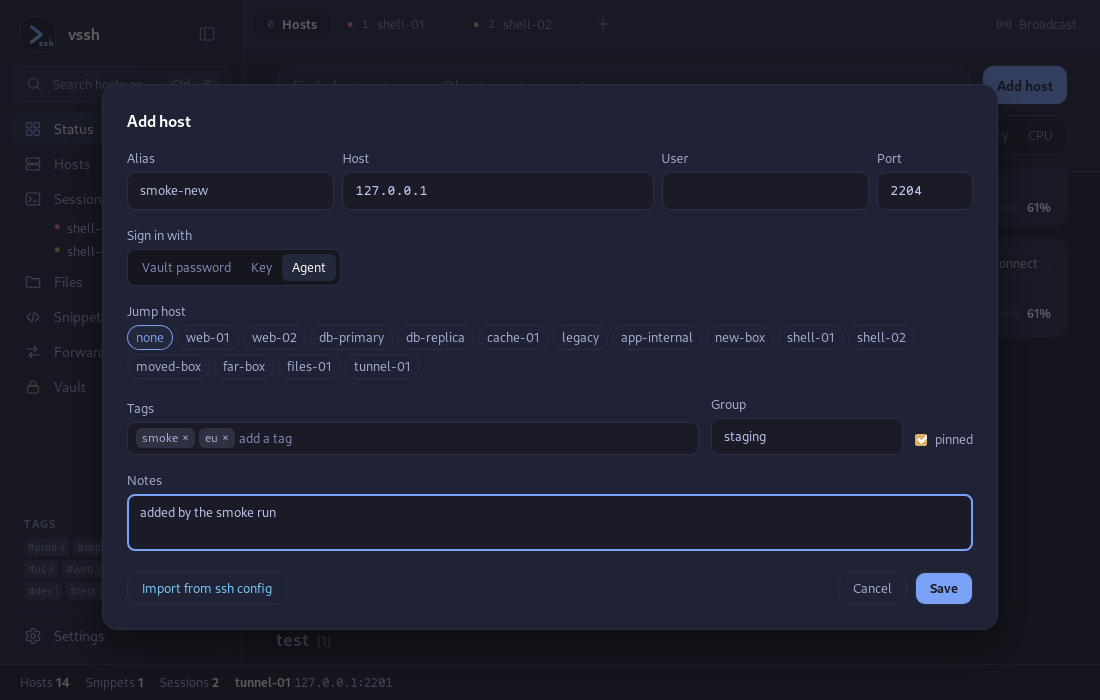
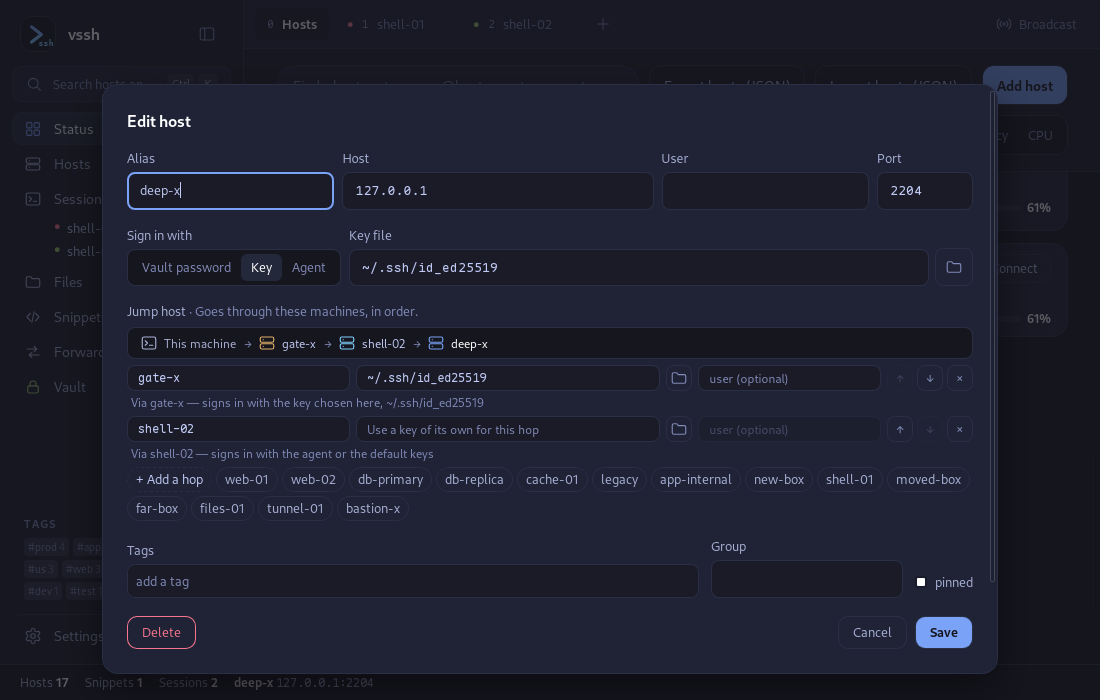
gui smoke: the real file dialog, a shell through two hops with the key a hop was given, the watching stopped and started; the host form's pictures
D14's part of the smoke, in the real app against the throwaway sshd: a jump
host whose own key is refused lets nobody in; the form gives the hop a key
chosen in GTK's file dialog (the public half standing for the key), the config
says ProxyJump a,b and nothing of that key, the database has it; then a shell
behind two hops, three logins. A card's Watch switch closes the connection
kept for its host and nobody logs in for two rounds; Pause watching in the
settings does it for every host.

The settings have a row more (the cheatsheet is the sixth) and the import has
a folder button on the way to Preview.

The host form keeps its buttons in view when a long road makes it scroll.
desktop-d6-host.png and .vi.png are the form as that part leaves it.

diff --git a/crates/vssh-desktop/src/lib/HostForm.svelte b/crates/vssh-desktop/src/lib/HostForm.svelte
@@ -232,7 +232,7 @@
   {#if importing}
     <HostImport {onimported} oncancel={() => (importing = false)} />
   {:else}
-    <form bind:this={root} novalidate onsubmit={save} class="grid max-h-[84vh] gap-4 overflow-y-auto p-6 text-[13px] text-white">
+    <form bind:this={root} novalidate onsubmit={save} class="grid max-h-[84vh] gap-4 overflow-y-auto px-6 pt-6 text-[13px] text-white">
       <p class="text-base font-semibold text-ink">{title}</p>
       <div class="grid grid-cols-[1fr_1.5fr_1fr_6rem] gap-2">
         <div>
@@ -491,7 +491,8 @@
           <span>{failed.message}</span>
         </p>
       {/if}
-      <div class="flex flex-wrap gap-2">
+      <!-- A long road makes the form taller than a low window: it scrolls, and what saves it stays in view. -->
+      <div class="sticky bottom-0 -mx-6 -mt-4 flex flex-wrap gap-2 bg-panel px-6 pt-4 pb-6">
         {#if alias}
           <button type="button" onclick={() => ondelete(alias)} class="{button} border-red text-red">
             {t('delete')}
